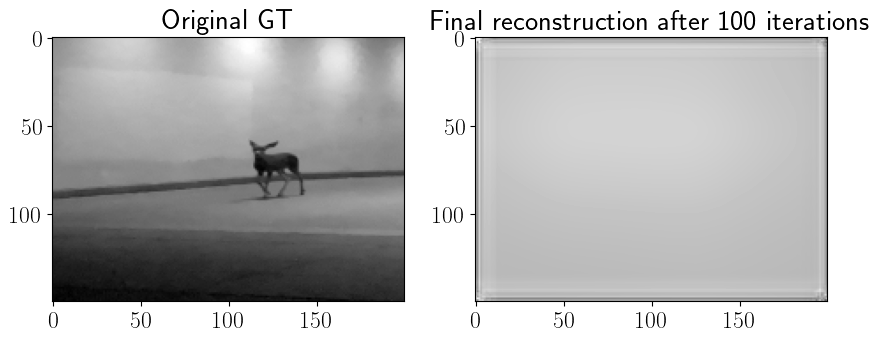
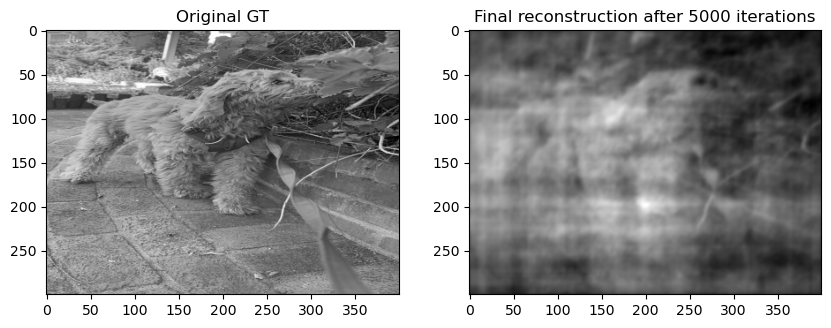
cleanup

diff --git a/construct.py b/construct.py
@@ -1,16 +1,13 @@
 import torch
-import torch.fft as fft
 import matplotlib.pyplot as plt
-from PIL import Image
 import numpy as np
-import yaml
 from op import ImageReconstructor, loaddata
 from tqdm import trange
 import imageio
+from deepinv.utils.plotting import plot, plot_curves
+import deepinv
 torch.manual_seed(0)
 def PnPReconstruction(meas_func, x, iters=1000):
-    import deepinv
-    from deepinv.utils.plotting import plot, plot_curves
     class Phys(deepinv.physics.LinearPhysics):
         def __init__(self, process):
             super().__init__()
@@ -34,7 +31,6 @@ def grad_descent(h, b, iters, save_interval):
     optimizer = torch.optim.AdamW(model.parameters(), lr=0.01)
     def non_neg(xi):
         return torch.clamp(xi, min=0)
-    
     frames = []
     for iteration in trange(iters):
         optimizer.zero_grad()
@@ -63,33 +59,36 @@ if __name__ == "__main__":
     parser.add_argument('--gif_save', type=bool, default=True, help='Save a gif', required=False, action=argparse.BooleanOptionalAction)
     parser.add_argument('--mps', type=bool, default=False, help='Use MPS', required=False, action=argparse.BooleanOptionalAction)
     parser.add_argument('--show_imgs', type=bool, default=False, help='Show images', required=False, action=argparse.BooleanOptionalAction)
+    parser.add_argument('--type', type=str, default='grad', help='Type of reconstruction to use', choices=['grad', 'pnp'])
     args = parser.parse_args()
     device = torch.device("mps" if (torch.backends.mps.is_available() and args.mps) else "cpu")
     psf, data = loaddata(args.psf_path, args.img_path, args.f, show_im=False)
     psf, data = psf.to(device), data.to(device)
     original_img = data
-    # if args.show_imgs:
-    #     plt.imshow(data.cpu().numpy(), cmap='gray')
-    #     plt.title('Original GT')
-    #     plt.show()
-    # data = ImageReconstructor(psf).to(device).simulate_measurement(data, noise_level=0.0000000).to(device)
-    # data /= torch.norm(data.flatten())
-    # if args.show_imgs:
-    #     plt.imshow(data.cpu().numpy(), cmap='gray')
-    #     plt.title('Raw data')
-    #     plt.show()
-    final_im, frames = PnPReconstruction(lambda x: ImageReconstructor(psf).to(device).simulate_measurement(x, noise_level=0.000000001).to(device), original_img, args.iters)
+    if args.show_imgs:
+        plt.imshow(data.cpu().numpy(), cmap='gray')
+        plt.title('Original GT')
+        plt.show()
+    data = ImageReconstructor(psf).to(device).simulate_measurement(data, noise_level=0.0000001).to(device)
+    data /= torch.norm(data.flatten())
+    if args.show_imgs:
+        plt.imshow(data.cpu().numpy(), cmap='gray')
+        plt.title('Raw data')
+        plt.show()
+    if args.type == 'pnp':
+        final_im, frames = PnPReconstruction(lambda x: ImageReconstructor(psf).to(device).simulate_measurement(x, noise_level=0.000000001).to(device), original_img, args.iters)
+    elif args.type == 'grad':
+        final_im, frames = grad_descent(psf, data, args.iters, args.save_interval)
+    if args.gif_save:
+        imageio.mimsave('reconstruction.gif', frames, format='GIF', duration=0.1) 
+    fig, axs = plt.subplots(1, 3)
+    axs[0].imshow(original_img.cpu().numpy(), cmap='gray')
+    axs[0].set_title('Original GT')
+    axs[1].imshow(data.cpu().numpy(), cmap='gray')
+    axs[1].set_title('Raw data')
+    axs[2].imshow(final_im.cpu().numpy(), cmap='gray')
+    axs[2].set_title('Final Reconstruction')
 
-    # final_im, frames = grad_descent(psf, data, args.iters, args.save_interval)
-    # if args.gif_save:
-        # imageio.mimsave('reconstruction.gif', frames, format='GIF', duration=0.1) 
-    plt.figure(figsize=(10, 10))
-    plt.subplot(1, 2, 1)
-    plt.imshow(original_img.cpu().numpy(), cmap='gray')
-    plt.title('Original GT')
-    plt.subplot(1, 2, 2)
-    plt.imshow(final_im.detach().cpu().numpy(), cmap='gray')
-    plt.title(f'Final reconstruction after {args.iters} iterations')
-    plt.savefig('comparison.png', bbox_inches='tight')
+   
     if args.show_imgs:
         plt.show()

diff --git a/readme.md b/readme.md
@@ -1,0 +1,31 @@
+# Diffuser cam (lensless photography)
+
+This project deals with the inverse problem of lensless photography with a PSF as the forward model. Using gradient descent, this project recovers the ground truth image.
+
+<!-- example image -->
+
+Below is an example reconstruction and a gif of the reconstruction process.
+![Example](./comparison.png)
+![Reconstruction](./reconstruction.gif)
+
+## Installation and Usage
+
+To install the required packages, run the following command in a VirtualEnv:
+
+```bash
+pip install -r requirements.txt
+```
+To get the result of the example, run the following command:
+
+```bash
+python construct.py --img_path images/gabby.jpeg --iters 5000 --mps --f 1  --save_interval 5 --type grad --psf_path images/psf_sample.tif --show_imgs 
+```
+
+## Optional Flags
+- `--f`: Factor to resize the images by
+- `--iters`: Number of iterations to run the optimization for
+- `--save_interval`: Interval for saving frames
+- `--gif_save`: Save a gif
+- `--mps`: Use MPS (for silicon macs)
+- `--show_imgs`: Show images
+- `--type`: Type of reconstruction to use
